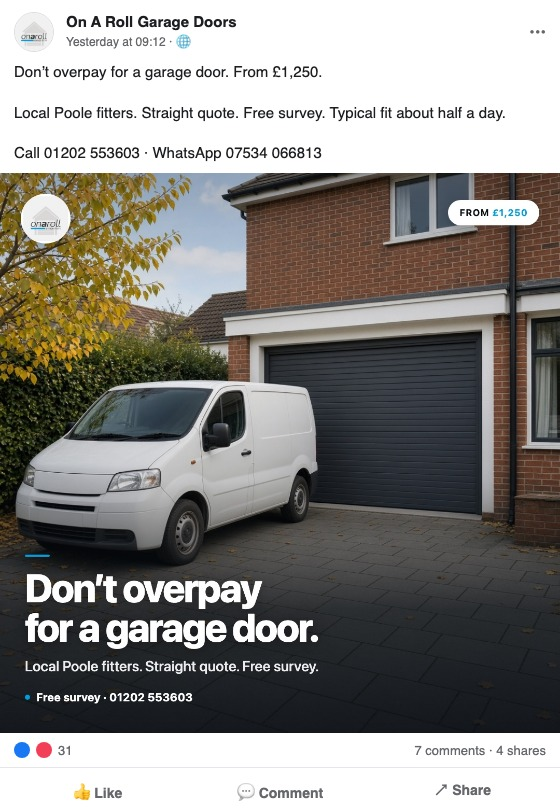
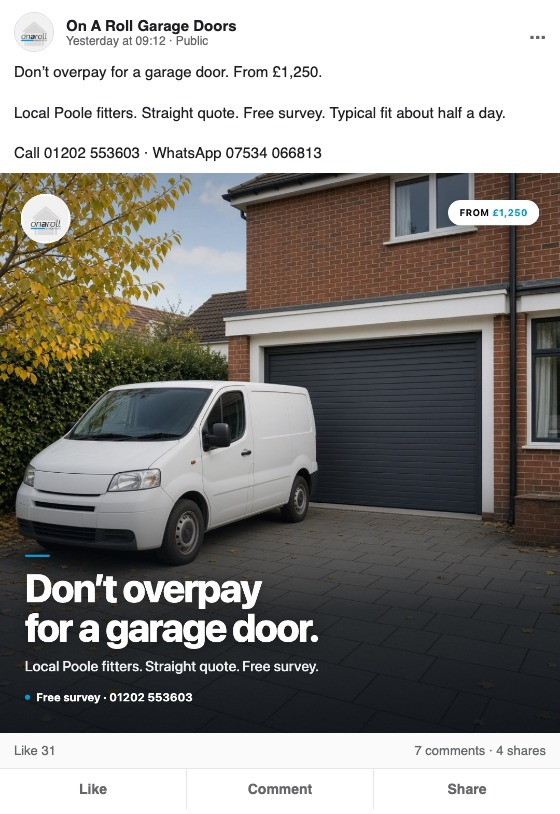
Complete Facebook feed simulations for all three posts

diff --git a/APPROVAL-BOARD.html b/APPROVAL-BOARD.html
@@ -49,7 +49,7 @@
     <h2 class="section">1 · Branded creatives (what we post as the image)</h2>
     <div class="grid grid-3">
       <div class="card">
-        <img src="OAR-SM-001.jpg?v=modern4" alt="Stop living with that door" />
+        <img src="OAR-SM-001.jpg?v=modern5" alt="Stop living with that door" />
         <div class="pad">
           <div class="id">OAR-SM-001 · Mon</div>
           <h3>Stop living with that door.</h3>
@@ -57,7 +57,7 @@
         </div>
       </div>
       <div class="card">
-        <img src="OAR-SM-002.jpg?v=modern4" alt="Your garage is an open invite" />
+        <img src="OAR-SM-002.jpg?v=modern5" alt="Your garage is an open invite" />
         <div class="pad">
           <div class="id">OAR-SM-002 · Wed</div>
           <h3>Your garage is an open invite.</h3>
@@ -65,7 +65,7 @@
         </div>
       </div>
       <div class="card">
-        <img src="OAR-SM-003.jpg?v=modern4" alt="Don’t overpay for a garage door" />
+        <img src="OAR-SM-003.jpg?v=modern5" alt="Don’t overpay for a garage door" />
         <div class="pad">
           <div class="id">OAR-SM-003 · Fri</div>
           <h3>Don’t overpay for a garage door.</h3>
@@ -77,15 +77,15 @@
     <h2 class="section">2 · Facebook feed simulation</h2>
     <div class="fb-grid">
       <div class="fb-card">
-        <img src="FB-MOCK-001.jpg?v=modern4" alt="Facebook mock post 1" />
+        <img src="FB-MOCK-001.jpg?v=modern5" alt="Facebook mock post 1" />
         <p>How OAR-SM-001 should look on Facebook</p>
       </div>
       <div class="fb-card">
-        <img src="FB-MOCK-002.jpg?v=modern4" alt="Facebook mock post 2" />
+        <img src="FB-MOCK-002.jpg?v=modern5" alt="Facebook mock post 2" />
         <p>How OAR-SM-002 should look on Facebook</p>
       </div>
       <div class="fb-card">
-        <img src="FB-MOCK-003.jpg?v=modern4" alt="Facebook mock post 3" />
+        <img src="FB-MOCK-003.jpg?v=modern5" alt="Facebook mock post 3" />
         <p>How OAR-SM-003 should look on Facebook</p>
       </div>
     </div>

diff --git a/index.html b/index.html
@@ -49,7 +49,7 @@
     <h2 class="section">1 · Branded creatives (what we post as the image)</h2>
     <div class="grid grid-3">
       <div class="card">
-        <img src="OAR-SM-001.jpg?v=modern4" alt="Stop living with that door" />
+        <img src="OAR-SM-001.jpg?v=modern5" alt="Stop living with that door" />
         <div class="pad">
           <div class="id">OAR-SM-001 · Mon</div>
           <h3>Stop living with that door.</h3>
@@ -57,7 +57,7 @@
         </div>
       </div>
       <div class="card">
-        <img src="OAR-SM-002.jpg?v=modern4" alt="Your garage is an open invite" />
+        <img src="OAR-SM-002.jpg?v=modern5" alt="Your garage is an open invite" />
         <div class="pad">
           <div class="id">OAR-SM-002 · Wed</div>
           <h3>Your garage is an open invite.</h3>
@@ -65,7 +65,7 @@
         </div>
       </div>
       <div class="card">
-        <img src="OAR-SM-003.jpg?v=modern4" alt="Don’t overpay for a garage door" />
+        <img src="OAR-SM-003.jpg?v=modern5" alt="Don’t overpay for a garage door" />
         <div class="pad">
           <div class="id">OAR-SM-003 · Fri</div>
           <h3>Don’t overpay for a garage door.</h3>
@@ -77,15 +77,15 @@
     <h2 class="section">2 · Facebook feed simulation</h2>
     <div class="fb-grid">
       <div class="fb-card">
-        <img src="FB-MOCK-001.jpg?v=modern4" alt="Facebook mock post 1" />
+        <img src="FB-MOCK-001.jpg?v=modern5" alt="Facebook mock post 1" />
         <p>How OAR-SM-001 should look on Facebook</p>
       </div>
       <div class="fb-card">
-        <img src="FB-MOCK-002.jpg?v=modern4" alt="Facebook mock post 2" />
+        <img src="FB-MOCK-002.jpg?v=modern5" alt="Facebook mock post 2" />
         <p>How OAR-SM-002 should look on Facebook</p>
       </div>
       <div class="fb-card">
-        <img src="FB-MOCK-003.jpg?v=modern4" alt="Facebook mock post 3" />
+        <img src="FB-MOCK-003.jpg?v=modern5" alt="Facebook mock post 3" />
         <p>How OAR-SM-003 should look on Facebook</p>
       </div>
     </div>
